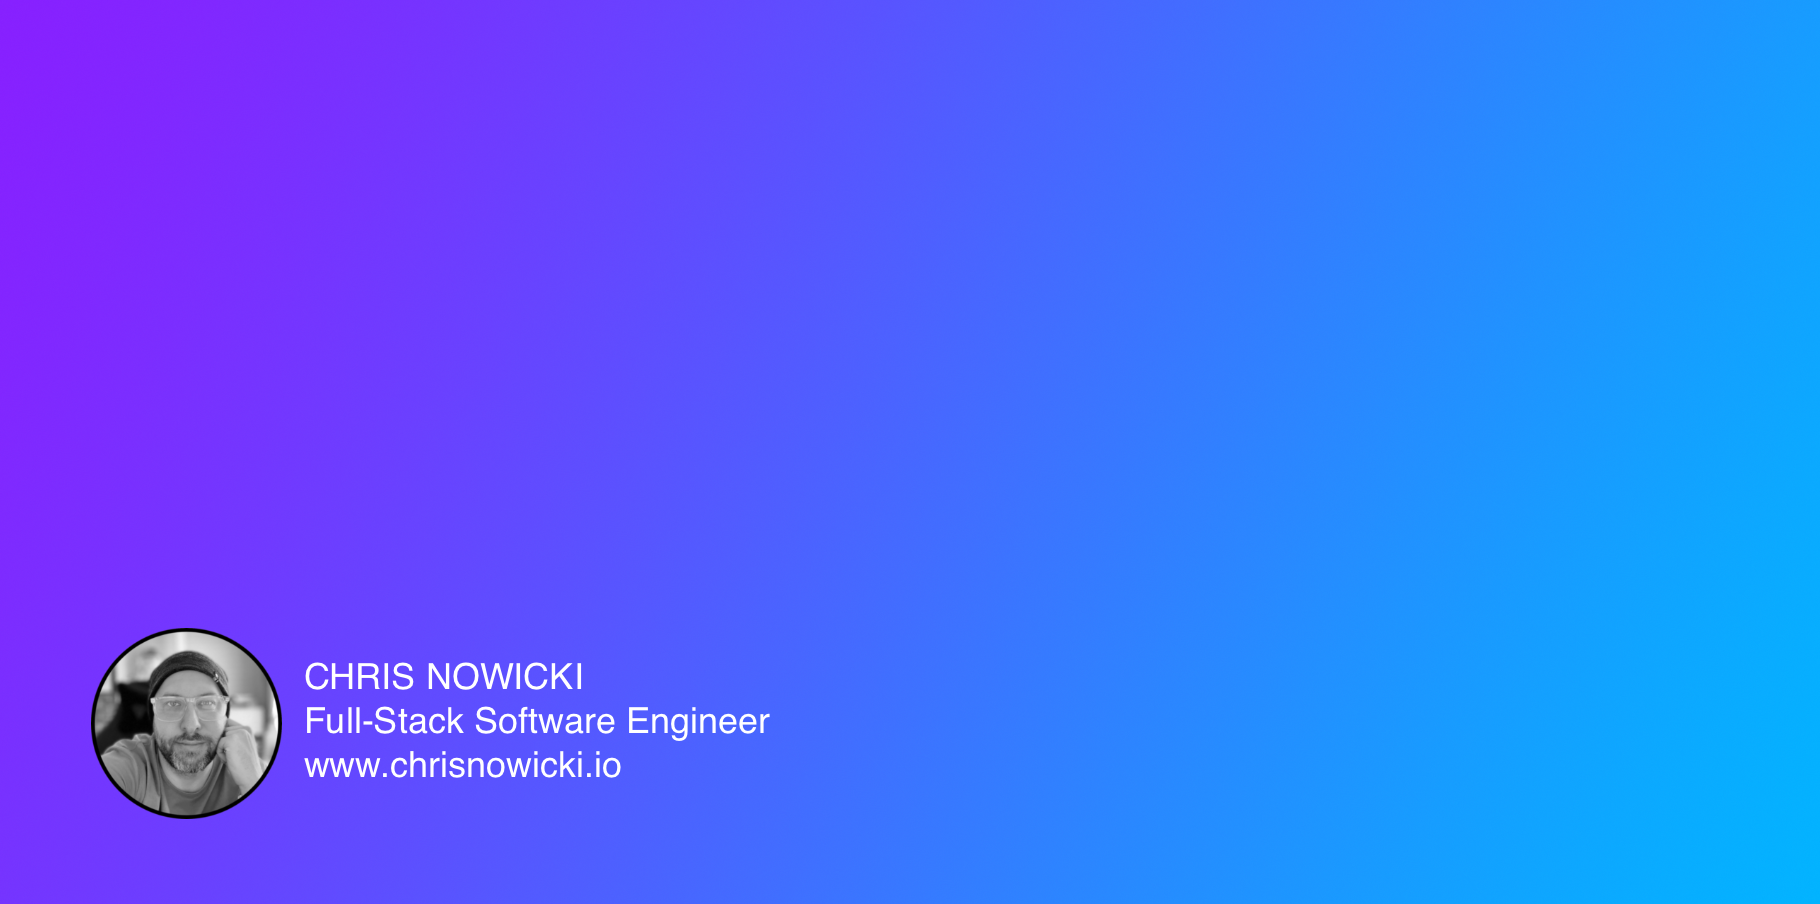
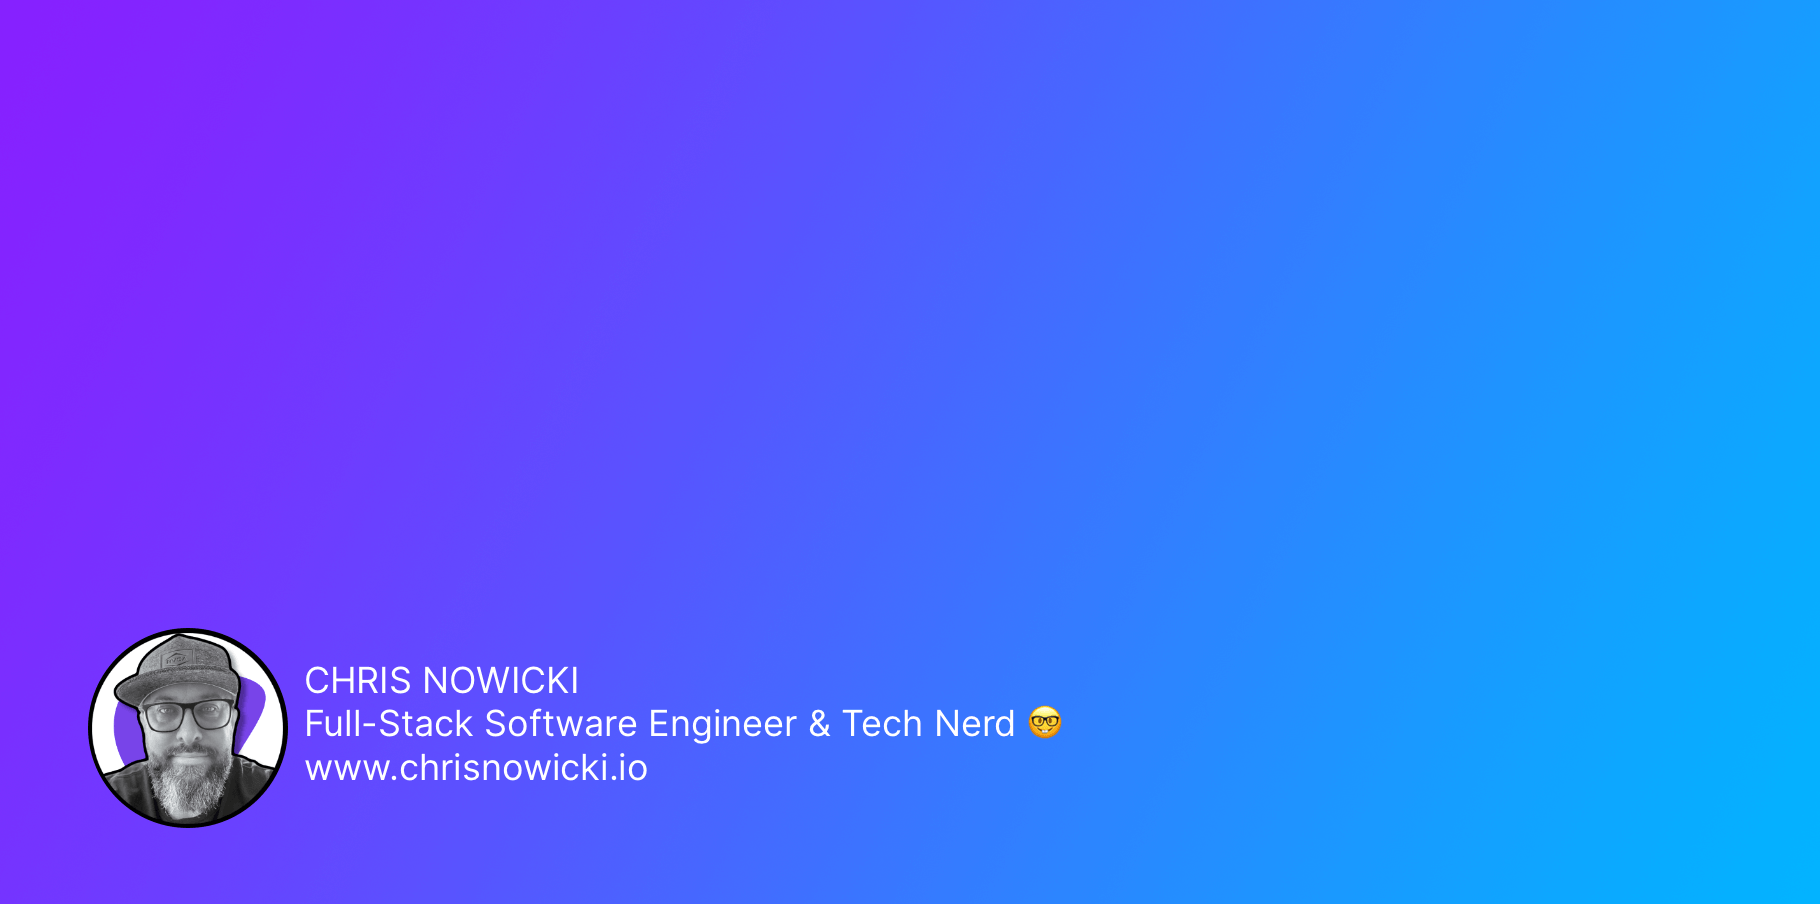
feat: update and add dynamic OG images

Changed region(s): [[0.0308, 0.6814, 0.5846, 0.9292]]

diff --git a/app/api/og/route.tsx b/app/api/og/route.tsx
@@ -1,0 +1,64 @@
+import { envVariables } from '@/new-types'
+import { ImageResponse } from '@vercel/og'
+import { NextRequest } from 'next/server'
+
+export const runtime = 'edge'
+const environment = process.env.NODE_ENV
+
+export async function GET(req: NextRequest) {
+  const { searchParams } = req.nextUrl
+  const pageDescription: string =
+    searchParams.get('description') || 'This is a description'
+  const title: string = searchParams.get('page') || 'Page'
+
+  const baseUrl =
+    environment === 'development' ?
+      'http://localhost:3000'
+    : 'https://chrisnowicki.io'
+
+  return new ImageResponse(
+    (
+      <div
+        style={{
+          height: '100%',
+          width: '100%',
+          display: 'flex',
+          flexDirection: 'column',
+          alignItems: 'flex-start',
+          backgroundImage: `url(${baseUrl}/og.png)`,
+        }}
+      >
+        <div
+          style={{
+            padding: '40px 0 0 91px',
+            color: 'white',
+            fontSize: 175,
+          }}
+        >
+          {`/${title}`}
+        </div>
+
+        <div
+          style={{
+            display: 'flex',
+            flexDirection: 'column',
+            justifyContent: 'center',
+            width: '100%',
+            fontSize: 110,
+            letterSpacing: '-0.05em',
+            fontStyle: 'normal',
+            color: 'white',
+            whiteSpace: 'pre-wrap',
+            padding: '0 0 0 91px',
+          }}
+        >
+          {pageDescription}
+        </div>
+      </div>
+    ),
+    {
+      width: 1820,
+      height: 904,
+    }
+  )
+}

diff --git a/app/(site)/community/page.tsx b/app/(site)/community/page.tsx
@@ -10,8 +10,41 @@ import TechnicalWriting from './TechnicalWriting'
 import OSS from '@/components/Engagements/OSS'
 import Conferences from '@/components/Engagements/Conferences'
 import Speaking from '@/components/Engagements/Speaking'
+import { Metadata } from 'next'
 
 export const revalidate = 60
+
+// metadata
+const title: string = `Chris Nowicki's Community Involvement`
+const description: string = `OSS, Technical Writing, Conferences, and Speaking Contributions`
+
+const ogSearchParams = new URLSearchParams()
+ogSearchParams.set('page', 'COMMUNITY')
+ogSearchParams.set('description', description)
+
+export const metadata: Metadata = {
+  title: title,
+  description: description,
+  openGraph: {
+    title: title,
+    description: description,
+    url: 'https://chrisnowicki.io/community',
+    images: [
+      {
+        url: `/api/og?${ogSearchParams.toString()}`,
+        width: 1200,
+        height: 630,
+        alt: title,
+      },
+    ],
+  },
+  twitter: {
+    card: 'summary_large_image',
+    title: title,
+    description: description,
+    images: [`/api/og?${ogSearchParams.toString()}`],
+  },
+}
 
 export default async function Blog() {
   return (

diff --git a/app/(site)/blog/page.tsx b/app/(site)/blog/page.tsx
@@ -3,6 +3,43 @@ import FeaturedPost from '@/components/Blog/FeaturedPost'
 import PostItem from '@/components/Blog/PostItem'
 import SectionHeading from '@/components/SectionHeading'
 import { sortPosts } from '@/lib/utils'
+import { Metadata } from 'next'
+
+type OGImageType = {
+  url: string
+}
+
+// metadata
+const title: string = `Chris Nowicki's Blog`
+const description: string = `Checkout my latest articles on all things tech and web development!`
+
+const ogSearchParams = new URLSearchParams()
+ogSearchParams.set('page', 'BLOG')
+ogSearchParams.set('description', description)
+
+export const metadata: Metadata = {
+  title: title,
+  description: description,
+  openGraph: {
+    title: title,
+    description: description,
+    url: 'https://chrisnowicki.io/blog',
+    images: [
+      {
+        url: `/api/og?${ogSearchParams.toString()}`,
+        width: 1200,
+        height: 630,
+        alt: title,
+      },
+    ],
+  },
+  twitter: {
+    card: 'summary_large_image',
+    title: title,
+    description: description,
+    images: [`/api/og?${ogSearchParams.toString()}`],
+  },
+}
 
 export default async function Blog() {
   const sortedPosts = sortPosts(

diff --git a/app/(site)/contact/page.tsx b/app/(site)/contact/page.tsx
@@ -4,6 +4,39 @@ import { cn } from '@/lib/utils'
 import Link from 'next/link'
 import EmailForm from '../../../components/Contact/EmailForm'
 import { contactPageLinks } from '@/lib/data'
+import { Metadata } from 'next'
+
+// metadata
+const title: string = `Contact Chris Nowicki`
+const description: string = `Schedule a video call or send a message`
+
+const ogSearchParams = new URLSearchParams()
+ogSearchParams.set('page', 'CONTACT')
+ogSearchParams.set('description', description)
+
+export const metadata: Metadata = {
+  title: title,
+  description: description,
+  openGraph: {
+    title: title,
+    description: description,
+    url: 'https://chrisnowicki.io/contact',
+    images: [
+      {
+        url: `/api/og?${ogSearchParams.toString()}`,
+        width: 1200,
+        height: 630,
+        alt: title,
+      },
+    ],
+  },
+  twitter: {
+    card: 'summary_large_image',
+    title: title,
+    description: description,
+    images: [`/api/og?${ogSearchParams.toString()}`],
+  },
+}
 
 export default async function Contact() {
   return (

diff --git a/app/(site)/blog/[...slug]/page.tsx b/app/(site)/blog/[...slug]/page.tsx
@@ -32,7 +32,8 @@ export async function generateMetadata({
   }
 
   const ogSearchParams = new URLSearchParams()
-  ogSearchParams.set('title', post.title)
+  ogSearchParams.set('page', 'BLOG')
+  ogSearchParams.set('description', post.title)
 
   return {
     title: post.title,
@@ -59,12 +60,6 @@ export async function generateMetadata({
       images: [`/api/og?${ogSearchParams.toString()}`],
     },
   }
-}
-
-export async function generateStaticParams(): Promise<
-  PostPageProps['params'][]
-> {
-  return posts.map((post) => ({ slug: post.slugAsParams.split('/') }))
 }
 
 export default async function PostPage({ params }: PostPageProps) {

diff --git a/components/Footer.tsx b/components/Footer.tsx
@@ -8,7 +8,7 @@ const footerLinks = [
   { name: '/speaking', href: '/#speaking' },
   { name: '/blog', href: '/blog' },
   { name: '/contact', href: '/contact' },
-  { name: '/community', href: '/community-speaking' },
+  { name: '/community', href: '/community' },
 ]
 
 export default async function Footer() {

diff --git a/new-types.d.ts b/new-types.d.ts
@@ -22,6 +22,7 @@ const envVariables = z.object({
   X_DOCUMENT_ID: z.string(),
   GITHUB_DOCUMENT_ID: z.string(),
   NEXT_PUBLIC_CLOUDINARY_CLOUD_NAME: z.string(),
+  VERCEL_ENV: z.string(),
 })
 
 envVariables.parse(process.env)

diff --git a/types/types.ts b/types/types.ts
@@ -82,3 +82,7 @@ interface ErrorResponse {
   message: string
   name: RESEND_ERROR_CODE_KEY
 }
+
+export type OGImageType = {
+  url: string
+}
